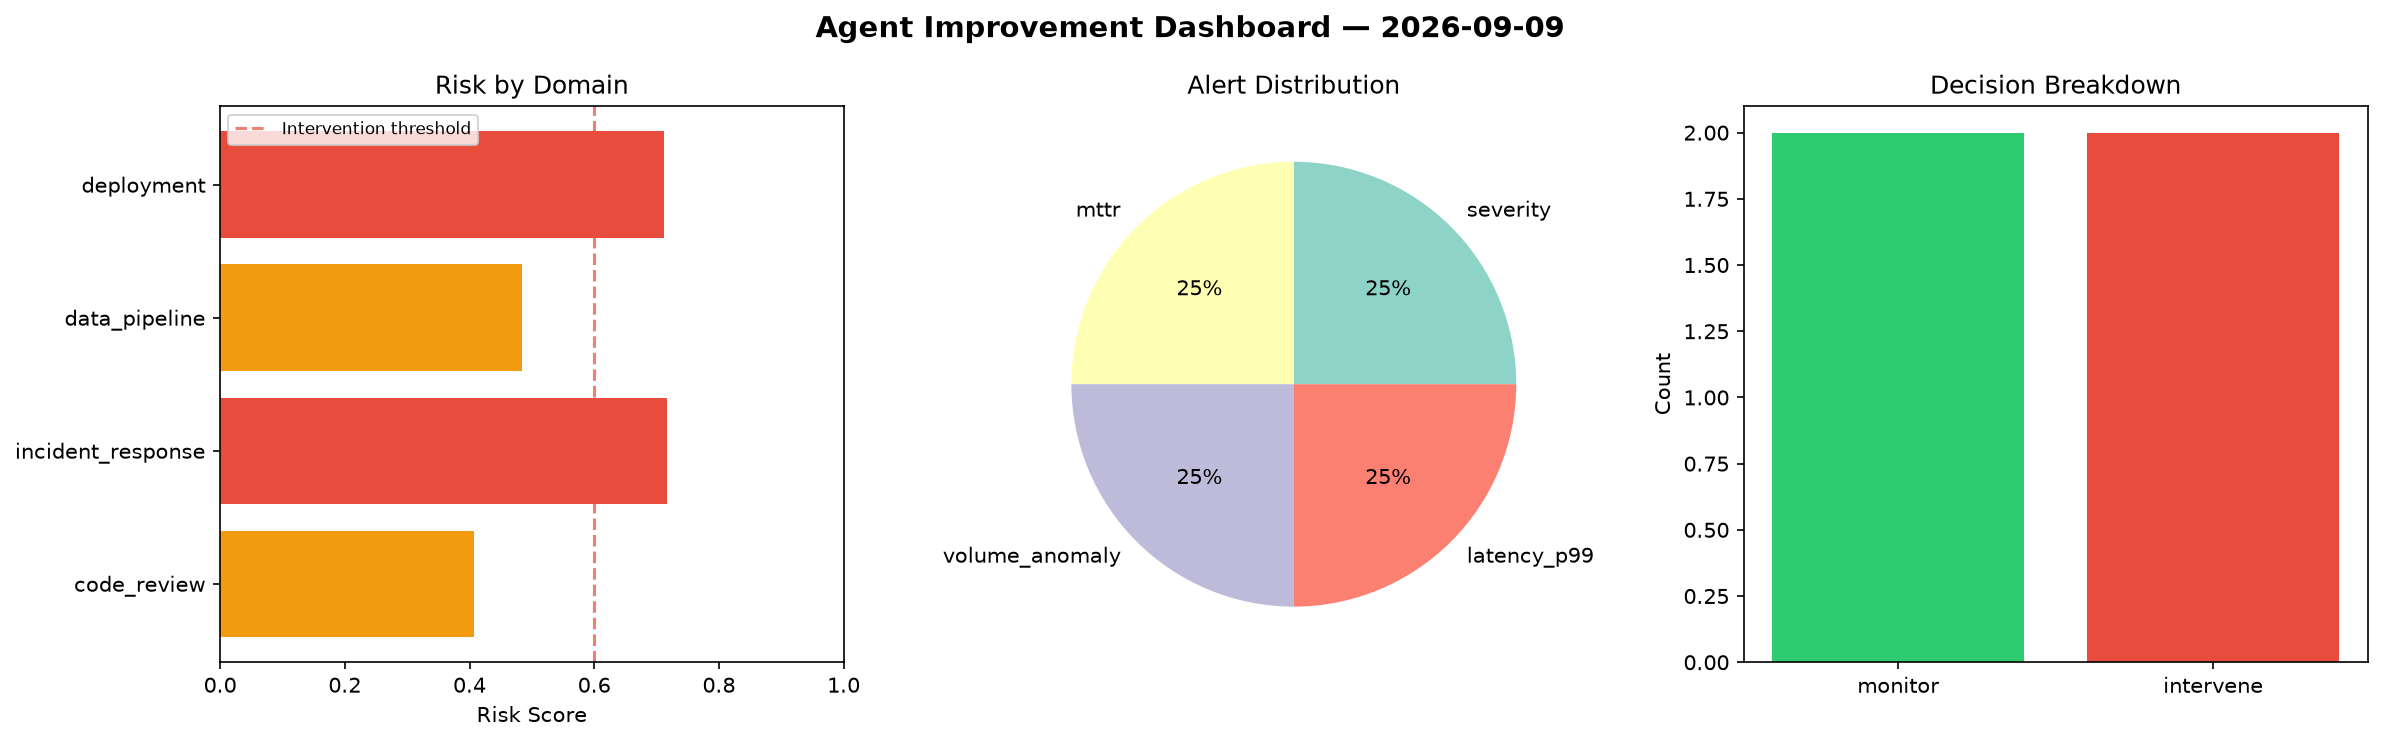
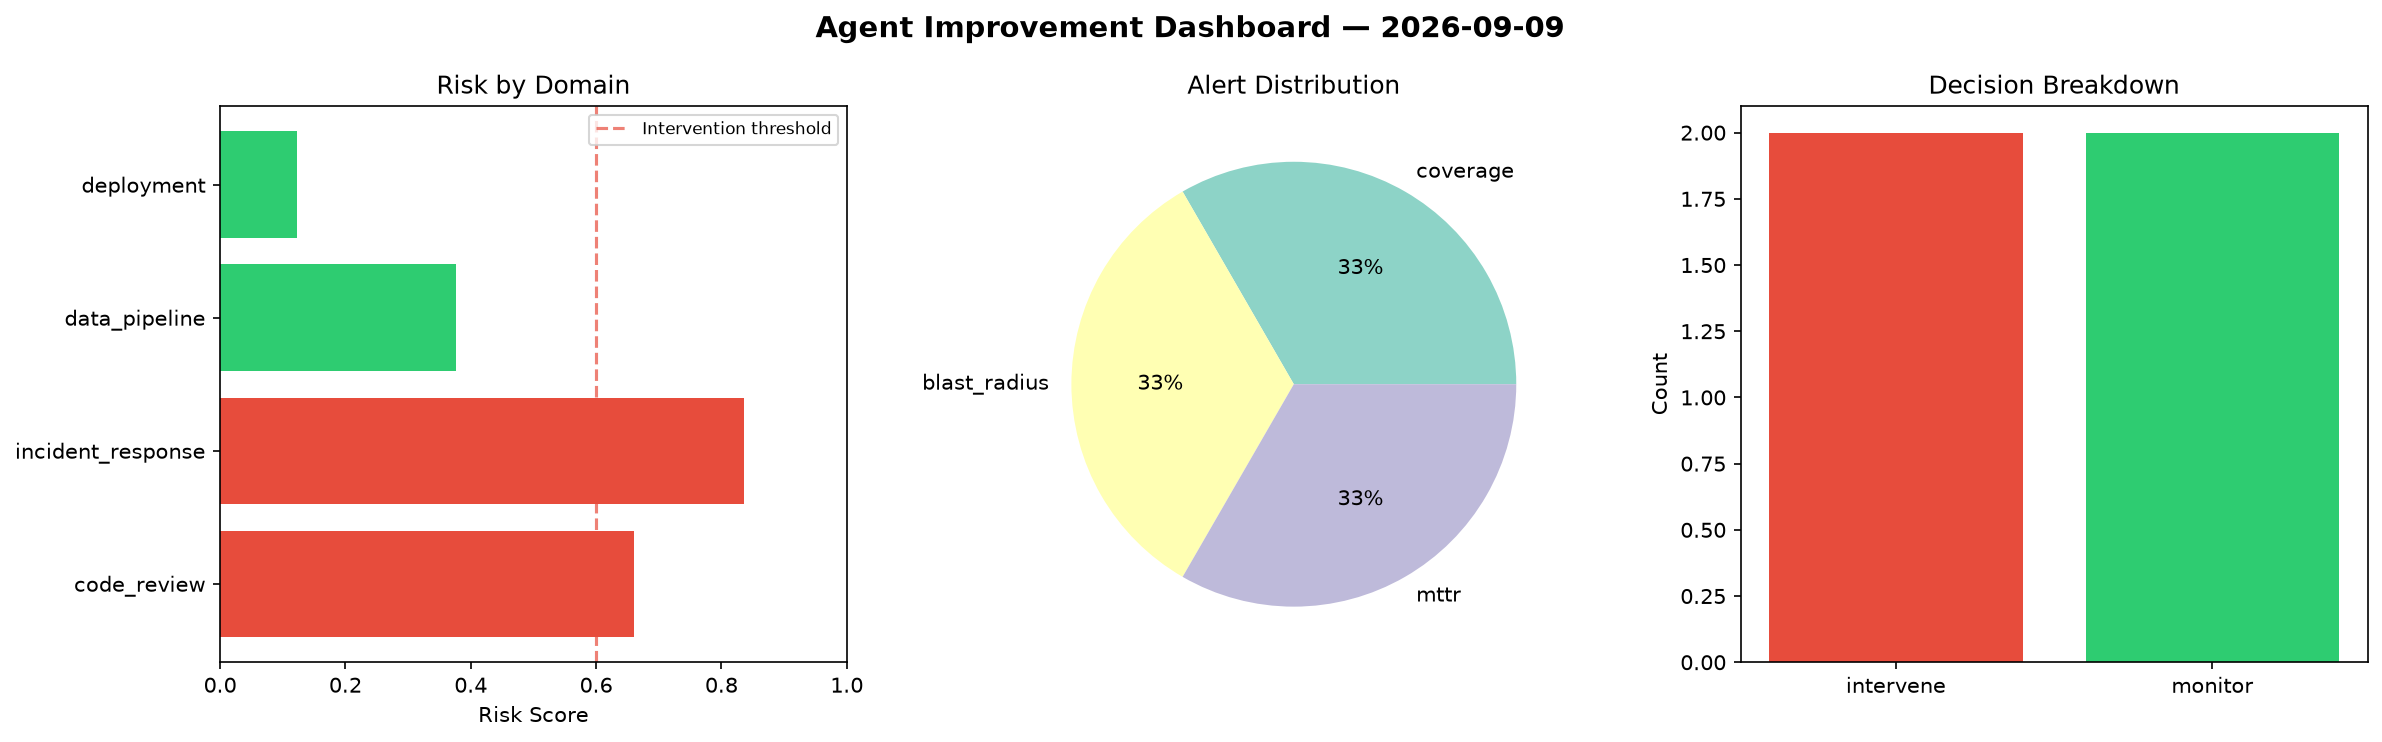
agent-improvement: daily cycle 2026-09-09T12:58

diff --git a/logs/2026-09-09.md b/logs/2026-09-09.md
@@ -1,6 +1,6 @@
 # Agent Improvement Report — 2026-09-09
 
-**Cycle ID:** `88f45d10` | **Avg Risk:** 0.5796 | **Interventions:** 2/4
+**Cycle ID:** `6c9d3fe9` | **Avg Risk:** 0.499 | **Interventions:** 2/4
 
 ![Dashboard](2026-09-09_dashboard.png)
 
@@ -10,18 +10,18 @@
 
 | Domain | Risk Score | Decision | Alerts |
 |--------|-----------|----------|--------|
-| code_review | 0.4064 | monitor | none |
-| incident_response | 0.7169 | intervene | severity, mttr |
-| data_pipeline | 0.4837 | monitor | volume_anomaly |
-| deployment | 0.7112 | intervene | latency_p99 |
+| code_review | 0.6611 | intervene | coverage |
+| incident_response | 0.8355 | intervene | blast_radius, mttr |
+| data_pipeline | 0.377 | monitor | none |
+| deployment | 0.1225 | monitor | none |
 
 ## Delta vs Yesterday
 
 | Domain | Today | Yesterday | Change |
 |--------|-------|-----------|--------|
-| code_review | 0.4064 | 0.4195 | 📉 -3.1% |
-| incident_response | 0.7169 | 0.7152 | 📈 0.2% |
-| data_pipeline | 0.4837 | 0.7131 | 📉 -32.2% |
-| deployment | 0.7112 | 0.3534 | 📈 101.2% |
+| code_review | 0.6611 | 0.4195 | 📈 57.6% |
+| incident_response | 0.8355 | 0.7152 | 📈 16.8% |
+| data_pipeline | 0.377 | 0.7131 | 📉 -47.1% |
+| deployment | 0.1225 | 0.3534 | 📉 -65.3% |
 
-**Refinement:** `{'adjustment': 'tighten_thresholds', 'trend': 'degrading', 'window': 4}`
+**Refinement:** `{'adjustment': 'maintain', 'trend': 'improving', 'window': 4}`
